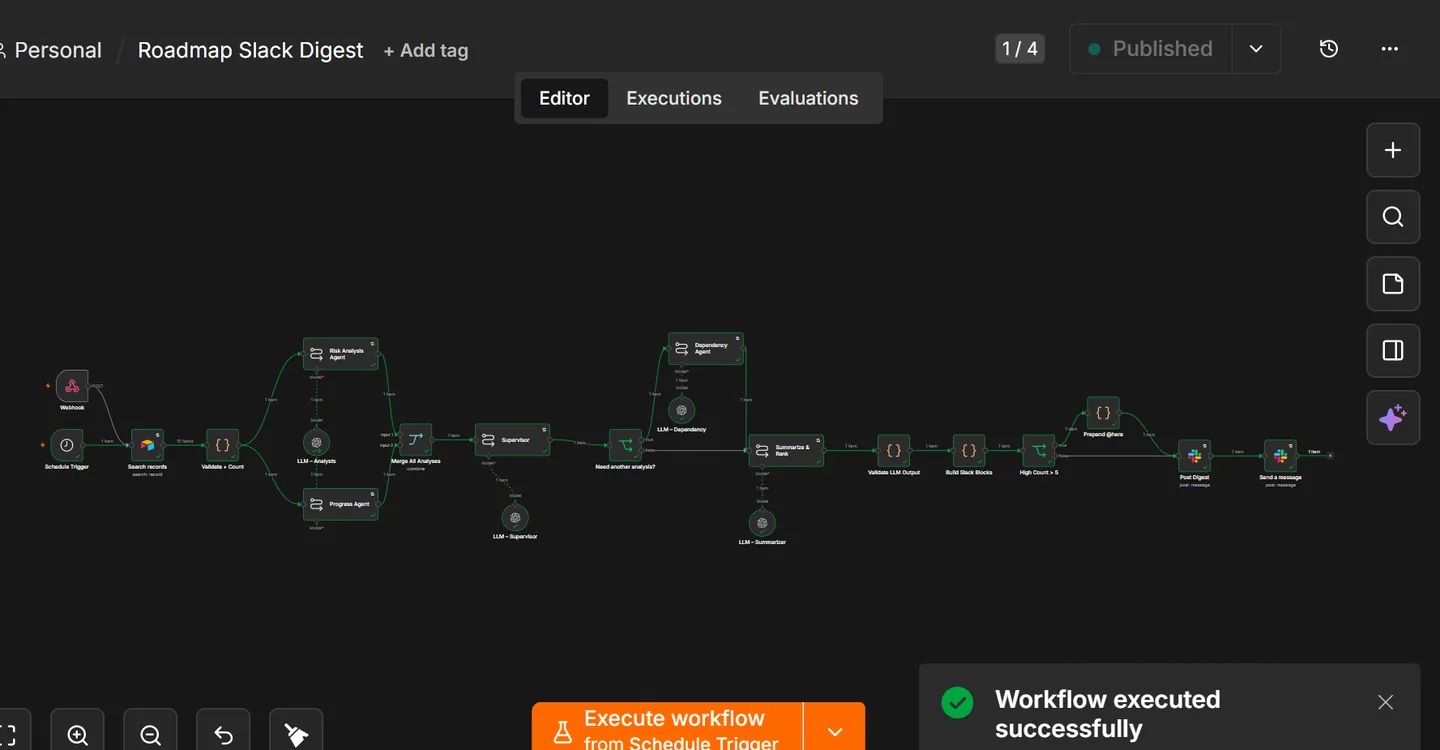
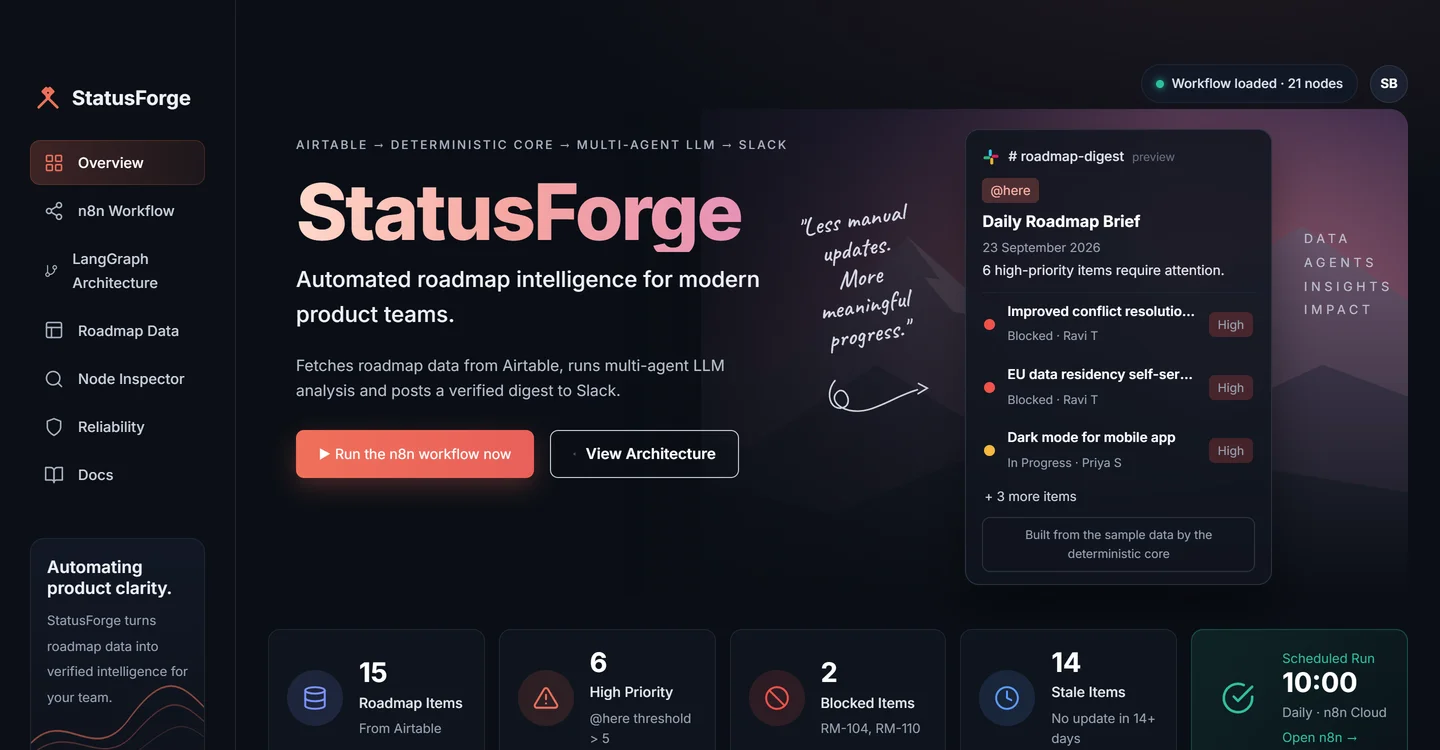
feat(projects): link StatusForge live Streamlit app and use its dashboard as cover

diff --git a/src/data/projects.ts b/src/data/projects.ts
@@ -104,8 +104,9 @@ export const projects: Project[] = [
     pipeline: ["validate", "analyse", "supervise", "rank", "verify", "post"],
     cover: "/projects/statusforge.webp",
     coverAlt:
-      "The StatusForge workflow open in the n8n editor, showing the agent graph and a successful run",
+      "The StatusForge dashboard showing the daily Slack digest preview and roadmap health counts",
     repo: "https://github.com/Samikshabatra/statusforge",
+    demo: "https://statusforge-hnr6zkh3p4ajcoglkwu7dh.streamlit.app",
   },
   {
     slug: "invision",

diff --git a/README.md b/README.md
@@ -105,7 +105,7 @@ nobody mistakes it for a running app.
 
 Three covers are real screenshots today: the Credit Risk platform (captured from its
 live Streamlit deployment), CyberSentinel (`docs/screenshots/` in its repo) and
-StatusForge (its n8n canvas). **Five still need one:** Market Intelligence Agent,
+StatusForge (its live Streamlit dashboard). **Five still need one:** Market Intelligence Agent,
 InVision, ClipIt, RAG Pipeline Debugger and RADAR. To add one:
 
 1. Run the project, screenshot its interface at roughly 1440×900.
